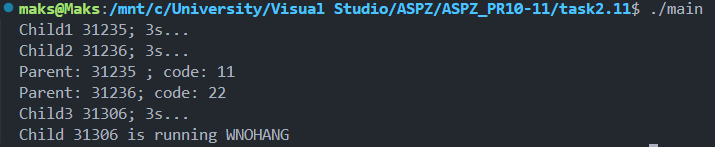
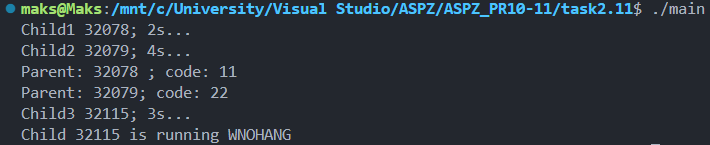
.

diff --git a/task2.11/main.c b/task2.11/main.c
@@ -9,15 +9,15 @@ int main() {
 
     pid1 = fork();
     if (pid1 == 0) {
-        printf("Child1 %d; 3s...\n", getpid());
-        sleep(3);
+        printf("Child1 %d; 2s...\n", getpid());
+        sleep(2);
         exit(11); 
     }
 
     pid2 = fork();
     if (pid2 == 0) {
-        printf("Child2 %d; 3s...\n", getpid());
-        sleep(3);
+        printf("Child2 %d; 4s...\n", getpid());
+        sleep(4);
         exit(22);
     }
 
